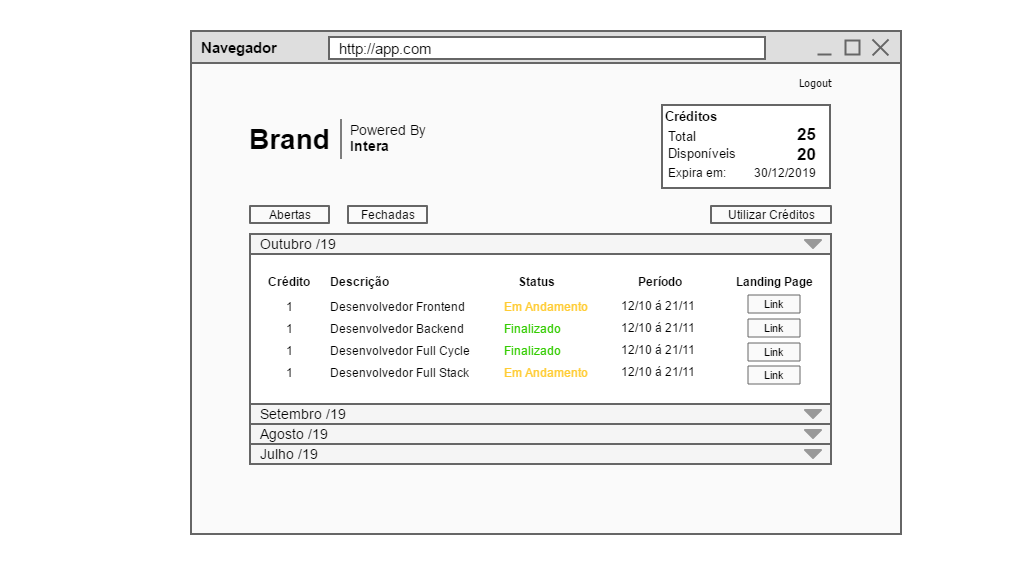
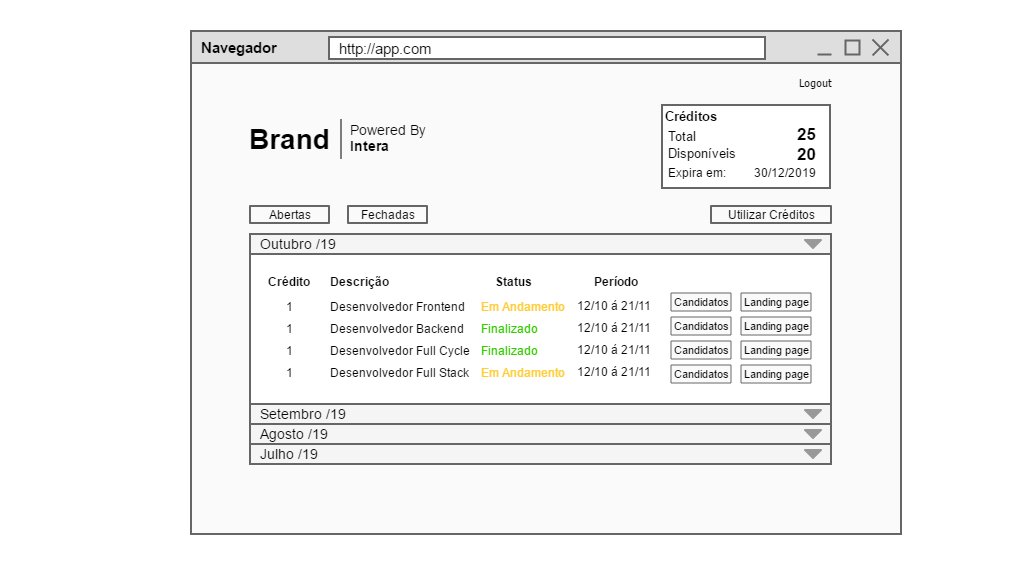
nova versao de detalhes do candidato

Changed region(s): [[0.4633, 0.4831, 0.8031, 0.6945]]

diff --git a/index.html b/index.html
@@ -1,85 +1,2 @@
-<html xmlns="http://www.w3.org/1999/xhtml" xmlns:p="http://www.evolus.vn/Namespace/Pencil"
-    xmlns:html="http://www.w3.org/1999/xhtml">
-
-<head>
-    <meta http-equiv="Content-Type" content="text/html; charset=UTF-8" />
-    <title>Mockup</title>
-    <link rel="stylesheet" href="Resources/SampleStyle.css" />
-</head>
-
-<body>
-    <h1 id="documentTitle">Mockup</h1>
-    <p id="documentMetadata">Exported at: Tue Oct 01 2019 13:13:10 GMT-0300 (Hora oficial do Brasil)</p>
-    <div class="Page" id="login_page">
-        <div class="ImageContainer"><img src="pages\login.png" width="1036" height="563" usemap="#map_login" /></div>
-        <map name="map_login"><area shape="rect" coords="474,415,583,449" href="#dashboard_page"
-                title="Go to page 'Dashboard'" /></map>
-    </div>
-    <div class="Page" id="dashboard_page">
-        <div class="ImageContainer"><img src="pages\dashboard.png" width="1036" height="563" usemap="#map_dashboard" />
-        </div><map name="map_dashboard"><area shape="rect" coords="798.984375,75.5,831.984375,88.5" href="#login_page"
-                title="Go to page 'Login'" /><area shape="rect" coords="330,365,469,382" href="#vitrine_page"
-                title="Go to page 'Vitrine'" /><area shape="rect" coords="330,343,470,360" href="#vitrine_page"
-                title="Go to page 'Vitrine'" /><area shape="rect" coords="330,321,464,338" href="#vitrine_page"
-                title="Go to page 'Vitrine'" /><area shape="rect" coords="330,299,465,316" href="#vitrine_page"
-                title="Go to page 'Vitrine'" /></map>
-    </div>
-    <div class="Page" id="vitrine_page">
-        <div class="ImageContainer"><img src="pages\vitrine.png" width="1036" height="563" usemap="#map_vitrine" />
-        </div><map name="map_vitrine"><area shape="rect" coords="798.984375,75.5,831.984375,88.5" href="#login_page"
-                title="Go to page 'Login'" /><area shape="rect" coords="344.984375,357,418.984375,371"
-                href="#candidato_4_page" title="Go to page 'Candidato 4'" /><area shape="rect"
-                coords="344.984375,335,418.984375,349" href="#candidato_3_page" title="Go to page 'Candidato 3'" /><area
-                shape="rect" coords="344.984375,313,418.984375,327" href="#candidato_2_page"
-                title="Go to page 'Candidato 2'" /><area shape="rect" coords="344.984375,291,418.984375,305"
-                href="#candidato_page" title="Go to page 'Candidato'" /></map>
-    </div>
-    <div class="Page" id="candidato_page">
-        <div class="ImageContainer"><img src="pages\candidato.png" width="1036" height="563" usemap="#map_candidato" />
-        </div><map name="map_candidato"><area shape="rect" coords="719.984375,497,764.984375,511"
-                href="#candidato_2_page" title="Go to page 'Candidato 2'" /><area shape="rect" coords="731,474,755,498"
-                href="#candidato_2_page" title="Go to page 'Candidato 2'" /><area shape="rect"
-                coords="798.984375,75.5,831.984375,88.5" href="#login_page" title="Go to page 'Login'" /><area
-                shape="rect" coords="364,125,388,149" href="#vitrine_page" title="Go to page 'Vitrine'" /><area
-                shape="rect" coords="471,470,505,504" href="#vitrine_page" title="Go to page 'Vitrine'" /><area
-                shape="rect" coords="641,470,675,504" href="#candidato_2_page" title="Go to page 'Candidato 2'" /></map>
-    </div>
-    <div class="Page" id="candidato_2_page">
-        <div class="ImageContainer"><img src="pages\candidato_2.png" width="1036" height="563"
-                usemap="#map_candidato_2" /></div><map name="map_candidato_2"><area shape="rect"
-                coords="375.984375,499,418.984375,513" href="#candidato_page" title="Go to page 'Candidato'" /><area
-                shape="rect" coords="383,474,407,498" href="#candidato_page" title="Go to page 'Candidato'" /><area
-                shape="rect" coords="719.984375,497,764.984375,511" href="#candidato_3_page"
-                title="Go to page 'Candidato 3'" /><area shape="rect" coords="731,474,755,498" href="#candidato_3_page"
-                title="Go to page 'Candidato 3'" /><area shape="rect" coords="798.984375,75.5,831.984375,88.5"
-                href="#login_page" title="Go to page 'Login'" /><area shape="rect" coords="364,125,388,149"
-                href="#vitrine_page" title="Go to page 'Vitrine'" /><area shape="rect" coords="471,470,505,504"
-                href="#vitrine_page" title="Go to page 'Vitrine'" /><area shape="rect" coords="641,470,675,504"
-                href="#candidato_3_page" title="Go to page 'Candidato 3'" /></map>
-    </div>
-    <div class="Page" id="candidato_3_page">
-        <div class="ImageContainer"><img src="pages\candidato_3.png" width="1036" height="563"
-                usemap="#map_candidato_3" /></div><map name="map_candidato_3"><area shape="rect"
-                coords="375.984375,499,418.984375,513" href="#candidato_2_page" title="Go to page 'Candidato 2'" /><area
-                shape="rect" coords="383,474,407,498" href="#candidato_2_page" title="Go to page 'Candidato 2'" /><area
-                shape="rect" coords="719.984375,497,764.984375,511" href="#candidato_4_page"
-                title="Go to page 'Candidato 4'" /><area shape="rect" coords="731,474,755,498" href="#candidato_4_page"
-                title="Go to page 'Candidato 4'" /><area shape="rect" coords="798.984375,75.5,831.984375,88.5"
-                href="#login_page" title="Go to page 'Login'" /><area shape="rect" coords="364,125,388,149"
-                href="#vitrine_page" title="Go to page 'Vitrine'" /><area shape="rect" coords="471,470,505,504"
-                href="#vitrine_page" title="Go to page 'Vitrine'" /><area shape="rect" coords="641,470,675,504"
-                href="#candidato_4_page" title="Go to page 'Candidato 4'" /></map>
-    </div>
-    <div class="Page" id="candidato_4_page">
-        <div class="ImageContainer"><img src="pages\candidato_4.png" width="1036" height="563"
-                usemap="#map_candidato_4" /></div><map name="map_candidato_4"><area shape="rect"
-                coords="375.984375,499,418.984375,513" href="#candidato_3_page" title="Go to page 'Candidato 3'" /><area
-                shape="rect" coords="383,474,407,498" href="#candidato_3_page" title="Go to page 'Candidato 3'" /><area
-                shape="rect" coords="798.984375,75.5,831.984375,88.5" href="#login_page"
-                title="Go to page 'Login'" /><area shape="rect" coords="364,125,388,149" href="#vitrine_page"
-                title="Go to page 'Vitrine'" /><area shape="rect" coords="471,470,505,504" href="#vitrine_page"
-                title="Go to page 'Vitrine'" /></map>
-    </div>
-</body>
-
-</html>
+<html xmlns="http://www.w3.org/1999/xhtml" xmlns:p="http://www.evolus.vn/Namespace/Pencil" xmlns:html="http://www.w3.org/1999/xhtml"><head><meta http-equiv="Content-Type" content="text/html; charset=UTF-8" />
+<title>Mockup21</title><link rel="stylesheet" href="Resources/SampleStyle.css" /></head><body><h1 id="documentTitle">Mockup21</h1><p id="documentMetadata">Exported at: Wed Oct 02 2019 12:40:47 GMT-0300 (Hora oficial do Brasil)</p><div class="Page" id="login_page"><h2>Login</h2><div class="ImageContainer"><img src="pages\login.png" width="1036" height="563" usemap="#map_login" /></div><map name="map_login"><area shape="rect" coords="474,415,583,449" href="#dashboard_page" title="Go to page 'Dashboard'" /></map></div><div class="Page" id="dashboard_page"><h2>Dashboard</h2><div class="ImageContainer"><img src="pages\dashboard.png" width="1036" height="563" usemap="#map_dashboard" /></div><map name="map_dashboard"><area shape="rect" coords="671,365,731,383" href="#vitrine_page" title="Go to page 'Vitrine'" /><area shape="rect" coords="671,341,731,359" href="#vitrine_page" title="Go to page 'Vitrine'" /><area shape="rect" coords="671,317,731,335" href="#vitrine_page" title="Go to page 'Vitrine'" /><area shape="rect" coords="671,293,731,311" href="#vitrine_page" title="Go to page 'Vitrine'" /><area shape="rect" coords="798.984375,75.5,831.984375,88.5" href="#login_page" title="Go to page 'Login'" /><area shape="rect" coords="330,365,469,382" href="#vitrine_page" title="Go to page 'Vitrine'" /><area shape="rect" coords="330,343,470,360" href="#vitrine_page" title="Go to page 'Vitrine'" /><area shape="rect" coords="330,321,464,338" href="#vitrine_page" title="Go to page 'Vitrine'" /><area shape="rect" coords="330,299,465,316" href="#vitrine_page" title="Go to page 'Vitrine'" /></map></div><div class="Page" id="vitrine_page"><h2>Vitrine</h2><div class="ImageContainer"><img src="pages\vitrine.png" width="1036" height="563" usemap="#map_vitrine" /></div><map name="map_vitrine"><area shape="rect" coords="353.984375,295,427.984375,309" href="#tecnicas_page" title="Go to page 'Tecnicas'" /><area shape="rect" coords="798.984375,75.5,831.984375,88.5" href="#login_page" title="Go to page 'Login'" /><area shape="rect" coords="275.984375,295,306.984375,309" href="#tecnicas_page" title="Go to page 'Tecnicas'" /></map></div><div class="Page" id="vitrine_1_page"><h2>Vitrine (1)</h2><div class="ImageContainer"><img src="pages\vitrine_1.png" width="1036" height="563" usemap="#map_vitrine_1" /></div><map name="map_vitrine_1"><area shape="rect" coords="203.984375,293,277.984375,307" href="#tecnicas_page" title="Go to page 'Tecnicas'" /><area shape="rect" coords="798.984375,75.5,831.984375,88.5" href="#login_page" title="Go to page 'Login'" /></map></div><div class="Page" id="vitrine_2_page"><h2>Vitrine (2)</h2><div class="ImageContainer"><img src="pages\vitrine_2.png" width="1036" height="563" usemap="#map_vitrine_2" /></div><map name="map_vitrine_2"><area shape="rect" coords="771,358,831,376" href="#info_base_page" title="Go to page 'Info. Base'" /><area shape="rect" coords="771,336,831,354" href="#info_base_page" title="Go to page 'Info. Base'" /><area shape="rect" coords="771,314,831,332" href="#info_base_page" title="Go to page 'Info. Base'" /><area shape="rect" coords="771,292,831,310" href="#info_base_page" title="Go to page 'Info. Base'" /><area shape="rect" coords="798.984375,75.5,831.984375,88.5" href="#login_page" title="Go to page 'Login'" /></map></div><div class="Page" id="info_base_page"><h2>Info. Base</h2><div class="ImageContainer"><img src="pages\info_base.png" width="1036" height="563" usemap="#map_info_base" /></div><map name="map_info_base"><area shape="rect" coords="630.5,188.5,729.5,218" href="#linkedin_page" title="Go to page 'LinkedIn'" /><area shape="rect" coords="529.5,188.5,628.5,218" href="#simulado_page" title="Go to page 'Simulado'" /><area shape="rect" coords="428.5,188.5,527.5,218" href="#comportamentais_page" title="Go to page 'Comportamentais'" /><area shape="rect" coords="327.5,188.5,426.5,218" href="#tecnicas_page" title="Go to page 'Tecnicas'" /><area shape="rect" coords="191,67,215,91" href="#vitrine_page" title="Go to page 'Vitrine'" /><area shape="rect" coords="672,112,712,152" href="#vitrine_page" title="Go to page 'Vitrine'" /></map></div><div class="Page" id="tecnicas_page"><h2>Tecnicas</h2><div class="ImageContainer"><img src="pages\tecnicas.png" width="1036" height="563" usemap="#map_tecnicas" /></div><map name="map_tecnicas"><area shape="rect" coords="631.5,188.5,730.5,218" href="#linkedin_page" title="Go to page 'LinkedIn'" /><area shape="rect" coords="530.5,188.5,629.5,218" href="#simulado_page" title="Go to page 'Simulado'" /><area shape="rect" coords="428.5,187.5,527.5,217" href="#comportamentais_page" title="Go to page 'Comportamentais'" /><area shape="rect" coords="229.5,188.5,328.5,218" href="#info_base_page" title="Go to page 'Info. Base'" /><area shape="rect" coords="191,67,215,91" href="#vitrine_page" title="Go to page 'Vitrine'" /><area shape="rect" coords="672,112,712,152" href="#vitrine_page" title="Go to page 'Vitrine'" /></map></div><div class="Page" id="comportamentais_page"><h2>Comportamentais</h2><div class="ImageContainer"><img src="pages\comportamentais.png" width="1036" height="563" usemap="#map_comportamentais" /></div><map name="map_comportamentais"><area shape="rect" coords="632.5,189.5,731.5,219" href="#linkedin_page" title="Go to page 'LinkedIn'" /><area shape="rect" coords="531.5,189.5,630.5,219" href="#simulado_page" title="Go to page 'Simulado'" /><area shape="rect" coords="332.5,189.5,431.5,219" href="#tecnicas_page" title="Go to page 'Tecnicas'" /><area shape="rect" coords="231.5,189.5,330.5,219" href="#info_base_page" title="Go to page 'Info. Base'" /><area shape="rect" coords="191,67,215,91" href="#vitrine_page" title="Go to page 'Vitrine'" /><area shape="rect" coords="672,112,712,152" href="#vitrine_page" title="Go to page 'Vitrine'" /></map></div><div class="Page" id="simulado_page"><h2>Simulado</h2><div class="ImageContainer"><img src="pages\simulado.png" width="1036" height="563" usemap="#map_simulado" /></div><map name="map_simulado"><area shape="rect" coords="633.5,188.5,732.5,218" href="#linkedin_page" title="Go to page 'LinkedIn'" /><area shape="rect" coords="432.5,188.5,531.5,218" href="#comportamentais_page" title="Go to page 'Comportamentais'" /><area shape="rect" coords="332.5,188.5,431.5,218" href="#tecnicas_page" title="Go to page 'Tecnicas'" /><area shape="rect" coords="231.5,188.5,330.5,218" href="#info_base_page" title="Go to page 'Info. Base'" /><area shape="rect" coords="191,67,215,91" href="#vitrine_page" title="Go to page 'Vitrine'" /><area shape="rect" coords="671,112,711,152" href="#vitrine_page" title="Go to page 'Vitrine'" /></map></div><div class="Page" id="linkedin_page"><h2>LinkedIn</h2><div class="ImageContainer"><img src="pages\linkedin.png" width="1036" height="563" usemap="#map_linkedin" /></div><map name="map_linkedin"><area shape="rect" coords="533.5,188.5,632.5,218" href="#simulado_page" title="Go to page 'Simulado'" /><area shape="rect" coords="432.5,188.5,531.5,218" href="#comportamentais_page" title="Go to page 'Comportamentais'" /><area shape="rect" coords="332.5,188.5,431.5,218" href="#tecnicas_page" title="Go to page 'Tecnicas'" /><area shape="rect" coords="231.5,188.5,330.5,218" href="#info_base_page" title="Go to page 'Info. Base'" /><area shape="rect" coords="191,67,215,91" href="#vitrine_page" title="Go to page 'Vitrine'" /><area shape="rect" coords="672,112,712,152" href="#vitrine_page" title="Go to page 'Vitrine'" /></map></div></body></html>

diff --git a/Resources/SampleStyle.css b/Resources/SampleStyle.css
@@ -5,9 +5,3 @@
 .ImageContainer img {
     border: solid 2px #999;
 }
-
-
-.Page {
-    width:100%;
-    height: 100%;
-}
